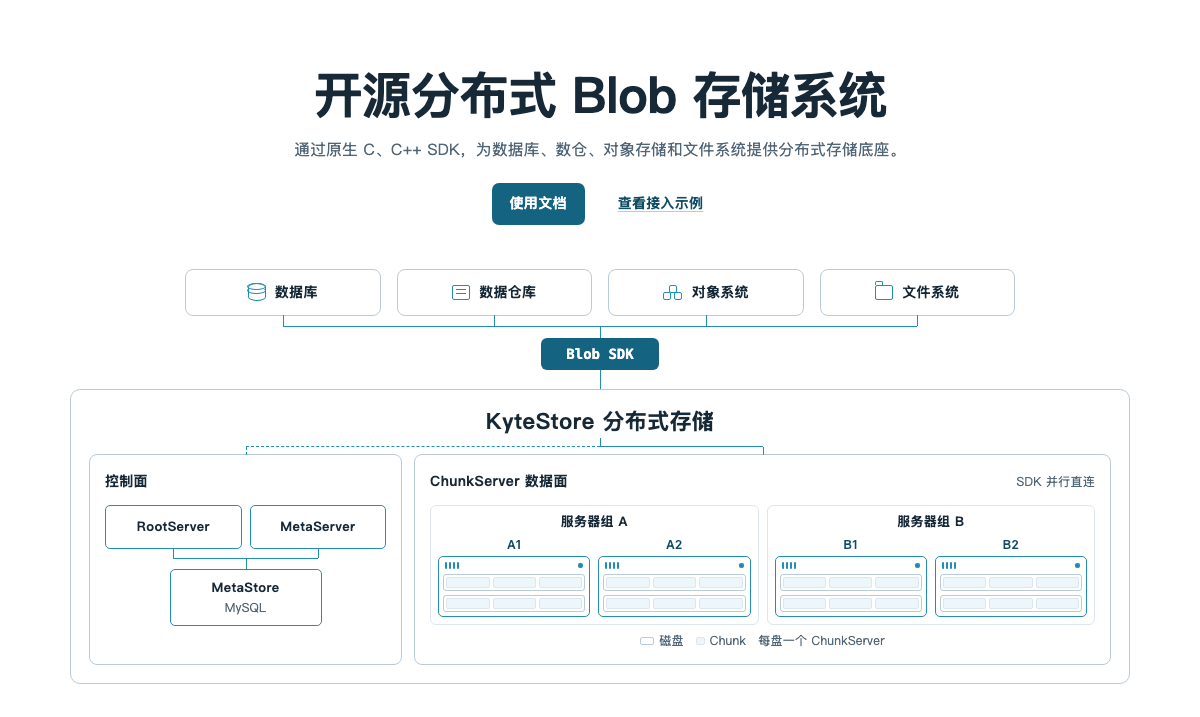
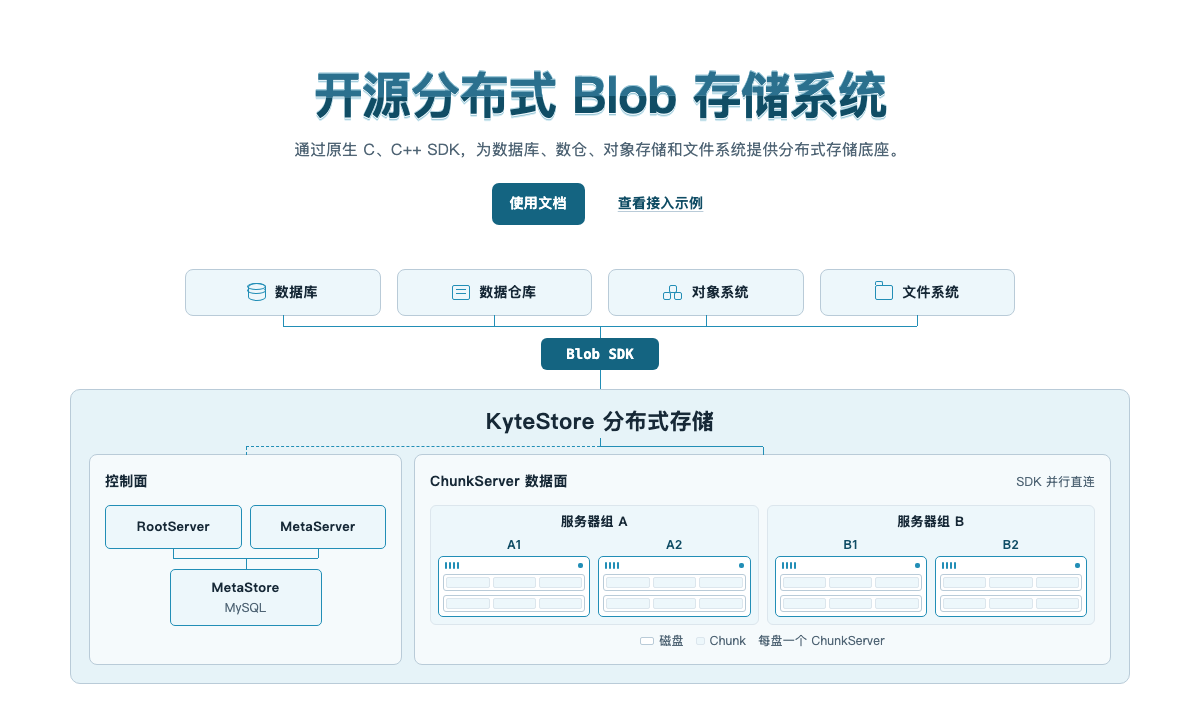
Restore tinted topology and add a glass hero title

Changed region(s): [[0.0617, 0.5216, 0.9558, 0.9512], [0.2467, 0.0921, 0.74, 0.1841]]

diff --git a/assets/kytestore-v2.css b/assets/kytestore-v2.css
@@ -136,16 +136,43 @@ button, a { -webkit-tap-highlight-color: transparent; }
 }
 
 .hero h1 {
+  position: relative;
   max-inline-size: 1000px;
   margin-inline: auto;
+  color: var(--ks-action-hover);
   font-size: clamp(1.75rem, 4.15vw, 3.4rem);
   font-weight: 650;
   letter-spacing: -0.028em;
   line-height: 1.17;
+  text-shadow: 0 -1px #b5d7e3, 0 1px #f0faff, 0 2px #9dc9d8, 0 3px #d9edf4;
   text-wrap: balance;
 }
 
 .hero h1:lang(en) { max-inline-size: 24ch; letter-spacing: -0.036em; }
+
+.hero h1::after {
+  position: absolute;
+  inset: 0;
+  color: #2b708e;
+  text-shadow: 0 -1px #9bc7d8;
+  /* Follow each line box so the gloss moves with the heading as it wraps. */
+  clip-path: polygon(
+    0 0, 100% 0, 100% .47lh, 0 .56lh,
+    0 1lh, 100% 1lh, 100% 1.47lh, 0 1.56lh,
+    0 2lh, 100% 2lh, 100% 2.47lh, 0 2.56lh,
+    0 3lh, 100% 3lh, 100% 3.47lh, 0 3.56lh
+  );
+  pointer-events: none;
+  user-select: none;
+  content: attr(data-zh) / "";
+}
+
+.hero h1:lang(en)::after { content: attr(data-en) / ""; }
+
+@media (forced-colors: active) {
+  .hero h1 { text-shadow: none; }
+  .hero h1::after { content: none; }
+}
 
 .hero-copy > p {
   max-inline-size: 740px;
@@ -221,7 +248,7 @@ button, a { -webkit-tap-highlight-color: transparent; }
   padding: 5px;
   border: 1px solid var(--ks-line);
   border-radius: 8px;
-  background: var(--ks-white);
+  background: var(--ks-cyan-wash);
   color: var(--ks-ink);
   font-weight: 630;
   line-height: 1.25;
@@ -291,7 +318,7 @@ button, a { -webkit-tap-highlight-color: transparent; }
   border: 1.5px solid;
   border-bottom: 0;
   border-radius: 2px 2px 0 0;
-  background: var(--ks-white);
+  background: var(--ks-cyan-wash);
 }
 
 .system-app::after, .system-sdk::before, .system-sdk::after {
@@ -331,7 +358,7 @@ button, a { -webkit-tap-highlight-color: transparent; }
   padding: clamp(8px, 1.6vw, 18px);
   border: 1px solid var(--ks-line);
   border-radius: 10px;
-  background: var(--ks-white);
+  background: #e6f3f8;
 }
 
 .system-core > h2 {
@@ -383,6 +410,7 @@ button, a { -webkit-tap-highlight-color: transparent; }
   padding: clamp(9px, 1.3vw, 15px);
   border: 1px solid var(--ks-line);
   border-radius: 8px;
+  background: #f5fafc;
 }
 
 .system-plane::before {
@@ -432,7 +460,7 @@ button, a { -webkit-tap-highlight-color: transparent; }
   padding: 6px 3px;
   border: 1px solid var(--ks-accent);
   border-radius: 5px;
-  background: var(--ks-white);
+  background: var(--ks-cyan-wash);
   color: var(--ks-ink);
   text-align: center;
 }
@@ -472,6 +500,7 @@ button, a { -webkit-tap-highlight-color: transparent; }
   padding: 7px;
   border: 1px solid var(--ks-line-soft);
   border-radius: 6px;
+  background: var(--ks-cyan-wash);
 }
 
 .system-rack h4 {
@@ -500,6 +529,7 @@ button, a { -webkit-tap-highlight-color: transparent; }
   padding: 17px 4px 4px;
   border: 1px solid var(--ks-accent);
   border-radius: 5px;
+  background: var(--ks-white);
 }
 
 .system-host-chassis::before, .system-host-chassis::after {
@@ -556,7 +586,7 @@ button, a { -webkit-tap-highlight-color: transparent; }
 }
 
 .system-key { display: inline-flex; align-items: center; gap: 5px; }
-.system-key i { width: 14px; height: 8px; border: 1px solid var(--ks-line); border-radius: 2px; }
+.system-key i { width: 14px; height: 8px; border: 1px solid var(--ks-line); border-radius: 2px; background: var(--ks-white); }
 .system-key--chunk i { width: 9px; border-color: var(--ks-line-soft); background: var(--ks-cyan-wash); }
 
 .ec-write {

diff --git a/public/assets/kytestore-v2.css b/public/assets/kytestore-v2.css
@@ -136,16 +136,43 @@ button, a { -webkit-tap-highlight-color: transparent; }
 }
 
 .hero h1 {
+  position: relative;
   max-inline-size: 1000px;
   margin-inline: auto;
+  color: var(--ks-action-hover);
   font-size: clamp(1.75rem, 4.15vw, 3.4rem);
   font-weight: 650;
   letter-spacing: -0.028em;
   line-height: 1.17;
+  text-shadow: 0 -1px #b5d7e3, 0 1px #f0faff, 0 2px #9dc9d8, 0 3px #d9edf4;
   text-wrap: balance;
 }
 
 .hero h1:lang(en) { max-inline-size: 24ch; letter-spacing: -0.036em; }
+
+.hero h1::after {
+  position: absolute;
+  inset: 0;
+  color: #2b708e;
+  text-shadow: 0 -1px #9bc7d8;
+  /* Follow each line box so the gloss moves with the heading as it wraps. */
+  clip-path: polygon(
+    0 0, 100% 0, 100% .47lh, 0 .56lh,
+    0 1lh, 100% 1lh, 100% 1.47lh, 0 1.56lh,
+    0 2lh, 100% 2lh, 100% 2.47lh, 0 2.56lh,
+    0 3lh, 100% 3lh, 100% 3.47lh, 0 3.56lh
+  );
+  pointer-events: none;
+  user-select: none;
+  content: attr(data-zh) / "";
+}
+
+.hero h1:lang(en)::after { content: attr(data-en) / ""; }
+
+@media (forced-colors: active) {
+  .hero h1 { text-shadow: none; }
+  .hero h1::after { content: none; }
+}
 
 .hero-copy > p {
   max-inline-size: 740px;
@@ -221,7 +248,7 @@ button, a { -webkit-tap-highlight-color: transparent; }
   padding: 5px;
   border: 1px solid var(--ks-line);
   border-radius: 8px;
-  background: var(--ks-white);
+  background: var(--ks-cyan-wash);
   color: var(--ks-ink);
   font-weight: 630;
   line-height: 1.25;
@@ -291,7 +318,7 @@ button, a { -webkit-tap-highlight-color: transparent; }
   border: 1.5px solid;
   border-bottom: 0;
   border-radius: 2px 2px 0 0;
-  background: var(--ks-white);
+  background: var(--ks-cyan-wash);
 }
 
 .system-app::after, .system-sdk::before, .system-sdk::after {
@@ -331,7 +358,7 @@ button, a { -webkit-tap-highlight-color: transparent; }
   padding: clamp(8px, 1.6vw, 18px);
   border: 1px solid var(--ks-line);
   border-radius: 10px;
-  background: var(--ks-white);
+  background: #e6f3f8;
 }
 
 .system-core > h2 {
@@ -383,6 +410,7 @@ button, a { -webkit-tap-highlight-color: transparent; }
   padding: clamp(9px, 1.3vw, 15px);
   border: 1px solid var(--ks-line);
   border-radius: 8px;
+  background: #f5fafc;
 }
 
 .system-plane::before {
@@ -432,7 +460,7 @@ button, a { -webkit-tap-highlight-color: transparent; }
   padding: 6px 3px;
   border: 1px solid var(--ks-accent);
   border-radius: 5px;
-  background: var(--ks-white);
+  background: var(--ks-cyan-wash);
   color: var(--ks-ink);
   text-align: center;
 }
@@ -472,6 +500,7 @@ button, a { -webkit-tap-highlight-color: transparent; }
   padding: 7px;
   border: 1px solid var(--ks-line-soft);
   border-radius: 6px;
+  background: var(--ks-cyan-wash);
 }
 
 .system-rack h4 {
@@ -500,6 +529,7 @@ button, a { -webkit-tap-highlight-color: transparent; }
   padding: 17px 4px 4px;
   border: 1px solid var(--ks-accent);
   border-radius: 5px;
+  background: var(--ks-white);
 }
 
 .system-host-chassis::before, .system-host-chassis::after {
@@ -556,7 +586,7 @@ button, a { -webkit-tap-highlight-color: transparent; }
 }
 
 .system-key { display: inline-flex; align-items: center; gap: 5px; }
-.system-key i { width: 14px; height: 8px; border: 1px solid var(--ks-line); border-radius: 2px; }
+.system-key i { width: 14px; height: 8px; border: 1px solid var(--ks-line); border-radius: 2px; background: var(--ks-white); }
 .system-key--chunk i { width: 9px; border-color: var(--ks-line-soft); background: var(--ks-cyan-wash); }
 
 .ec-write {

diff --git a/index.html b/index.html
@@ -12,14 +12,14 @@
   <meta property="og:title" content="KyteStore 2.0 · 开源分布式 Blob 存储系统" data-en-content="KyteStore 2.0 | Open Source Distributed Blob Storage System">
   <meta property="og:description" content="分布式 Blob 存储底座，支持原生 C/C++ SDK 和非对齐 EC。" data-en-content="A distributed Blob storage layer with a native C/C++ SDK and unaligned erasure coding.">
   <meta property="og:url" content="https://kytestore.com/">
-  <meta property="og:image" content="https://kytestore.com/assets/images/kytestore-topology.png">
+  <meta property="og:image" content="https://kytestore.com/assets/images/kytestore-topology.png?v=2">
   <meta name="twitter:card" content="summary_large_image">
   <link rel="icon" href="/favicon.ico" sizes="any">
   <link rel="icon" type="image/png" sizes="48x48" href="/favicon-48x48.png">
   <link rel="icon" type="image/svg+xml" href="/favicon.svg">
   <link rel="apple-touch-icon" href="/apple-touch-icon.png">
   <link rel="stylesheet" href="/assets/kytestore-theme.css">
-  <link rel="stylesheet" href="/assets/kytestore-v2.css?v=6">
+  <link rel="stylesheet" href="/assets/kytestore-v2.css?v=7">
   <script src="/assets/kytestore-v2.js?v=5" defer></script>
 </head>
 <body>
@@ -45,7 +45,7 @@
   <main class="shell" id="main">
     <section class="hero" id="overview" aria-labelledby="hero-title">
       <div class="hero-copy">
-        <h1 id="hero-title" data-en="Open Source Distributed Blob Storage System">开源分布式 Blob 存储系统</h1>
+        <h1 id="hero-title" data-zh="开源分布式 Blob 存储系统" data-en="Open Source Distributed Blob Storage System">开源分布式 Blob 存储系统</h1>
         <p data-en="A storage layer for databases, warehouses, object stores, and file systems, with a native C and C++ SDK.">通过原生 C、C++ SDK，为数据库、数仓、对象存储和文件系统提供分布式存储底座。</p>
         <div class="hero-actions">
           <a class="primary-action" href="/docs/" data-en="Read the docs">使用文档</a>

diff --git a/public/index.html b/public/index.html
@@ -12,14 +12,14 @@
   <meta property="og:title" content="KyteStore 2.0 · 开源分布式 Blob 存储系统" data-en-content="KyteStore 2.0 | Open Source Distributed Blob Storage System">
   <meta property="og:description" content="分布式 Blob 存储底座，支持原生 C/C++ SDK 和非对齐 EC。" data-en-content="A distributed Blob storage layer with a native C/C++ SDK and unaligned erasure coding.">
   <meta property="og:url" content="https://kytestore.com/">
-  <meta property="og:image" content="https://kytestore.com/assets/images/kytestore-topology.png">
+  <meta property="og:image" content="https://kytestore.com/assets/images/kytestore-topology.png?v=2">
   <meta name="twitter:card" content="summary_large_image">
   <link rel="icon" href="/favicon.ico" sizes="any">
   <link rel="icon" type="image/png" sizes="48x48" href="/favicon-48x48.png">
   <link rel="icon" type="image/svg+xml" href="/favicon.svg">
   <link rel="apple-touch-icon" href="/apple-touch-icon.png">
   <link rel="stylesheet" href="/assets/kytestore-theme.css">
-  <link rel="stylesheet" href="/assets/kytestore-v2.css?v=6">
+  <link rel="stylesheet" href="/assets/kytestore-v2.css?v=7">
   <script src="/assets/kytestore-v2.js?v=5" defer></script>
 </head>
 <body>
@@ -45,7 +45,7 @@
   <main class="shell" id="main">
     <section class="hero" id="overview" aria-labelledby="hero-title">
       <div class="hero-copy">
-        <h1 id="hero-title" data-en="Open Source Distributed Blob Storage System">开源分布式 Blob 存储系统</h1>
+        <h1 id="hero-title" data-zh="开源分布式 Blob 存储系统" data-en="Open Source Distributed Blob Storage System">开源分布式 Blob 存储系统</h1>
         <p data-en="A storage layer for databases, warehouses, object stores, and file systems, with a native C and C++ SDK.">通过原生 C、C++ SDK，为数据库、数仓、对象存储和文件系统提供分布式存储底座。</p>
         <div class="hero-actions">
           <a class="primary-action" href="/docs/" data-en="Read the docs">使用文档</a>

diff --git a/docs/index.html b/docs/index.html
@@ -10,7 +10,7 @@
   <link rel="icon" href="/favicon.ico" sizes="any">
   <link rel="icon" type="image/svg+xml" href="/favicon.svg">
   <link rel="stylesheet" href="/assets/kytestore-theme.css">
-  <link rel="stylesheet" href="/assets/kytestore-v2.css?v=6">
+  <link rel="stylesheet" href="/assets/kytestore-v2.css?v=7">
   <script src="/assets/kytestore-v2.js?v=5" defer></script>
 </head>
 <body>

diff --git a/downloads/index.html b/downloads/index.html
@@ -11,7 +11,7 @@
   <link rel="icon" href="/favicon.ico" sizes="any">
   <link rel="icon" type="image/svg+xml" href="/favicon.svg">
   <link rel="stylesheet" href="/assets/kytestore-theme.css">
-  <link rel="stylesheet" href="/assets/kytestore-v2.css?v=6">
+  <link rel="stylesheet" href="/assets/kytestore-v2.css?v=7">
   <script src="/assets/kytestore-v2.js?v=5" defer></script>
 </head>
 <body>

diff --git a/public/docs/index.html b/public/docs/index.html
@@ -10,7 +10,7 @@
   <link rel="icon" href="/favicon.ico" sizes="any">
   <link rel="icon" type="image/svg+xml" href="/favicon.svg">
   <link rel="stylesheet" href="/assets/kytestore-theme.css">
-  <link rel="stylesheet" href="/assets/kytestore-v2.css?v=6">
+  <link rel="stylesheet" href="/assets/kytestore-v2.css?v=7">
   <script src="/assets/kytestore-v2.js?v=5" defer></script>
 </head>
 <body>

diff --git a/public/downloads/index.html b/public/downloads/index.html
@@ -11,7 +11,7 @@
   <link rel="icon" href="/favicon.ico" sizes="any">
   <link rel="icon" type="image/svg+xml" href="/favicon.svg">
   <link rel="stylesheet" href="/assets/kytestore-theme.css">
-  <link rel="stylesheet" href="/assets/kytestore-v2.css?v=6">
+  <link rel="stylesheet" href="/assets/kytestore-v2.css?v=7">
   <script src="/assets/kytestore-v2.js?v=5" defer></script>
 </head>
 <body>
